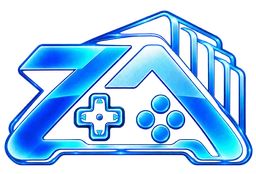
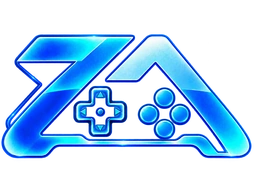
fix(branding): simplify ZA identity to the gamepad monogram

diff --git a/.planning/quick/261028-bt1-polish-zockarchive-branding-with-transpa/261028-bt1-SUMMARY.md b/.planning/quick/261028-bt1-polish-zockarchive-branding-with-transpa/261028-bt1-SUMMARY.md
@@ -47,3 +47,7 @@ background without floor/reflection; preserve geometry and metallic blue finish.
 The navigation emblem is 128 by 88 px, twice the previous 64 by 44 px. The shared navigation-height token is 104 px so fixed-header offsets and content remain aligned. Medium desktops show the emblem without the native name to preserve the centered navigation pill. Updated transparent masters remove the dark internal backing as well as the exterior background; the navigation derivative is 256 px wide for high-density displays. Browser checks enforce the doubled dimensions, header containment, responsive navigation separation and a negligible opaque-dark pixel fraction.
 
 Validation: typecheck passed; 152 test files and 1,707 tests passed; production build passed; all six Chromium brand checks passed in light/dark themes, 320 px through 4K, including synthetic controller input and internal transparency. Browser screenshots were inspected in both themes. Physical-controller UAT remains manual.
+
+## Gamepad-only identity
+
+Removed the rear server/stacked-frame motif from both transparent masters. The foreground ZA gamepad, controls and existing wordmark remain. Refreshed all three runtime WebP derivatives without changing the approved header dimensions. Production build and all six Chromium brand checks passed. Light/dark browser screenshots were inspected; exterior and internal alpha checks passed.

diff --git a/docs/FRONTEND_ARCHITECTURE.md b/docs/FRONTEND_ARCHITECTURE.md
@@ -269,6 +269,8 @@ The domain shared composite `components/shared/ProjectBrand.vue` presents the
 transparent artwork through auth and about variants. Small WebP derivatives
 retain actual alpha in the exterior and internal dark negative spaces. The
 transparent masters are overlay-transparent.png and mark-transparent.png.
+The emblem is the single ZA monogram shaped as a gamepad, with its D-pad
+and face buttons; it has no rear server or stacked-frame motif.
 Navigation pairs a 128 by 88 px emblem with native 22 px theme-colored
 ZockArchive text in a 104 px navigation bar. Extra-small screens and medium
 desktops keep only the emblem. It never places a complete logo beside another copy of its
